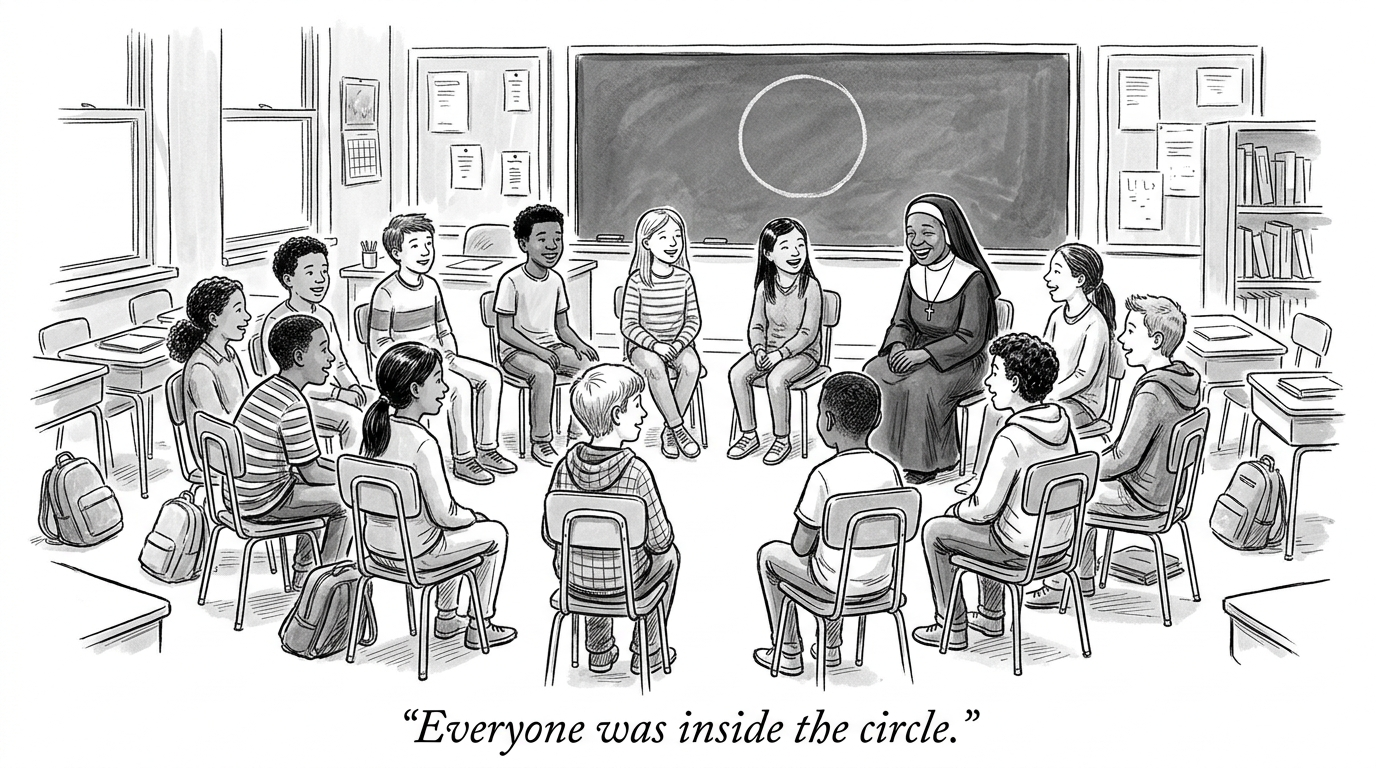
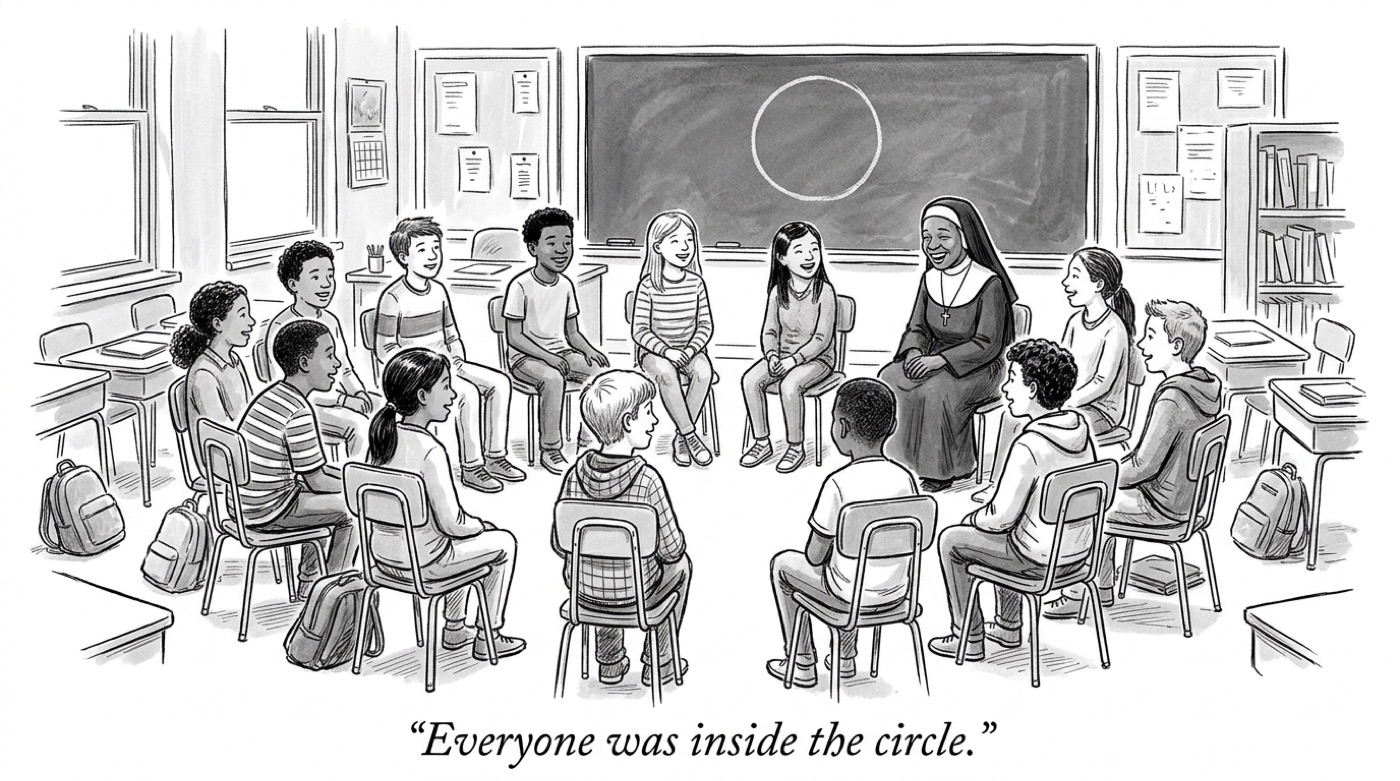
Modern redesign: trust panel in the hero, card grid blog with covers and topic chips, post pages with cover and CTA, new footer; compressed post images

diff --git a/app/assets/stylesheets/site.css b/app/assets/stylesheets/site.css
@@ -1,51 +1,126 @@
-:root{--navy:#0a1733;--blue:#2563eb;--blue-x:#60a5fa;--paper:#faf8f4;--ink:#16213a;--mute:#5b6478;--line:#e4dfd5;--serif:"Fraunces",Georgia,serif;--sans:"Inter",system-ui,sans-serif}
+/* Parallex: modern, restrained, built for readers who have to trust us. Navy anchor, cool neutral ground, one blue accent. */
+:root{--navy:#0b1630;--navy-2:#13264d;--accent:#2457d6;--accent-soft:#e8eefc;--bg:#f6f7f9;--surface:#fff;--ink:#101828;--mute:#566074;--line:#e2e6ee;--ok:#1e7a55;--r:14px;--shadow:0 1px 2px rgba(16,24,40,.05),0 8px 24px rgba(16,24,40,.06);--sans:"Inter",system-ui,-apple-system,"Segoe UI",sans-serif;--head:"Plus Jakarta Sans","Inter",system-ui,sans-serif}
 *{box-sizing:border-box}
-body{margin:0;background:var(--paper);color:var(--ink);font:17px/1.65 var(--sans)}
-.wrap{max-width:1040px;margin:0 auto;padding:0 24px}
-a{color:var(--blue)}
-h1,h2,h3{font-family:var(--serif);font-weight:400;line-height:1.15;letter-spacing:-.01em;margin:0 0 .5em}
-h1{font-size:clamp(2.2rem,5vw,3.6rem)}h2{font-size:clamp(1.6rem,3vw,2.2rem)}h3{font-size:1.25rem}
-em{font-style:italic}
-.top{border-bottom:1px solid var(--line);background:var(--paper)}
-.bar{display:flex;align-items:center;justify-content:space-between;height:68px}
-.brand{display:flex;align-items:center;gap:12px;text-decoration:none;color:var(--navy)}
-.mark{display:block;border-radius:6px}
-.cube{width:22px;height:22px;border-radius:5px;background:linear-gradient(135deg,var(--blue-x),var(--blue));transform:rotate(45deg)}
-.nm{font:700 15px var(--serif);font-family:"Space Grotesk",sans-serif;letter-spacing:.14em}
-nav{display:flex;align-items:center;gap:26px;font-size:15px}
+html{scroll-behavior:smooth}
+body{margin:0;background:var(--bg);color:var(--ink);font:17px/1.65 var(--sans);-webkit-font-smoothing:antialiased}
+.wrap{max-width:1120px;margin:0 auto;padding:0 28px}
+a{color:var(--accent);text-underline-offset:3px}
+a:focus-visible,.btn:focus-visible,input:focus-visible,select:focus-visible,textarea:focus-visible{outline:3px solid #9db8f5;outline-offset:2px}
+h1,h2,h3{font-family:var(--head);font-weight:600;line-height:1.12;letter-spacing:-.02em;margin:0 0 .55em;color:var(--navy);text-wrap:balance}
+h1{font-size:clamp(2.3rem,5.2vw,3.7rem)}h2{font-size:clamp(1.6rem,3vw,2.15rem)}h3{font-size:1.18rem;letter-spacing:-.01em}
+em{font-style:normal;color:#9ec1ff}
+/* header */
+.top{position:sticky;top:0;z-index:20;background:rgba(246,247,249,.86);backdrop-filter:saturate(1.4) blur(10px);-webkit-backdrop-filter:saturate(1.4) blur(10px);border-bottom:1px solid var(--line)}
+.bar{display:flex;align-items:center;justify-content:space-between;height:72px}
+.brand{display:flex;align-items:center;gap:12px;text-decoration:none}
+.mark{display:block;border-radius:10px;width:44px;height:44px;object-fit:cover}
+nav{display:flex;align-items:center;gap:28px;font-size:15px;font-weight:500}
 nav a{color:var(--ink);text-decoration:none}
-nav a:hover{color:var(--blue)}
-.btn{display:inline-block;background:var(--navy);color:#fff!important;padding:13px 24px;border-radius:2px;text-decoration:none;font-weight:500;border:0;cursor:pointer;font:500 16px var(--sans)}
-.btn:hover{background:var(--blue)}
-.btn.small{padding:8px 16px;font-size:14px}
-.hero{position:relative;background:var(--navy) linear-gradient(135deg,#0a1733,#16305f);color:#fff;overflow:hidden}
-.hero::before{content:none}
-.hero::after{content:"";position:absolute;inset:0;background:linear-gradient(180deg,rgba(10,23,51,.0),rgba(10,23,51,.0))}
-.hero .wrap{position:relative;z-index:1;padding-top:110px;padding-bottom:110px}
-.hero p{max-width:34em;font-size:1.2rem;color:#d6dff2}
-.hero .btn{background:#fff;color:var(--navy)!important}.hero .btn:hover{background:var(--blue-x)}
-section.block{padding:84px 0;border-bottom:1px solid var(--line)}
-.cols{display:grid;grid-template-columns:repeat(3,1fr);gap:40px}
+nav a:hover{color:var(--accent)}
+.btn{display:inline-flex;align-items:center;gap:8px;background:var(--navy);color:#fff!important;padding:14px 26px;border-radius:999px;text-decoration:none;font:600 15px var(--sans);border:0;cursor:pointer;transition:background .15s,transform .15s}
+.btn:hover{background:var(--accent);transform:translateY(-1px)}
+.btn.small{padding:9px 18px;font-size:14px}
+.btn.ghost{background:transparent;color:var(--navy)!important;box-shadow:inset 0 0 0 1.5px var(--line)}
+.btn.ghost:hover{background:var(--surface);box-shadow:inset 0 0 0 1.5px var(--accent)}
+/* hero */
+.hero{background:radial-gradient(1200px 500px at 85% -10%,#1b3a78 0%,transparent 60%),linear-gradient(160deg,var(--navy),var(--navy-2));color:#fff}
+.hero .wrap{display:grid;grid-template-columns:1.35fr .85fr;gap:56px;align-items:center;padding-top:96px;padding-bottom:96px}
+.hero h1{color:#fff;margin-bottom:.4em}
+.hero p{max-width:33em;font-size:1.15rem;color:#cfd9ee}
+.hero .actions{display:flex;gap:14px;flex-wrap:wrap;margin-top:28px}
+.hero .btn{background:#fff;color:var(--navy)!important}.hero .btn:hover{background:#dbe6ff}
+.hero .btn.ghost{background:transparent;color:#fff!important;box-shadow:inset 0 0 0 1.5px rgba(255,255,255,.4)}
+.hero .btn.ghost:hover{background:rgba(255,255,255,.08);box-shadow:inset 0 0 0 1.5px #fff}
+.assure{background:rgba(255,255,255,.07);border:1px solid rgba(255,255,255,.16);border-radius:var(--r);padding:26px;list-style:none;margin:0}
+.assure li{display:flex;gap:14px;padding:14px 0;border-top:1px solid rgba(255,255,255,.12);color:#e6edfb;font-size:.98rem;line-height:1.45}
+.assure li:first-child{border-top:0;padding-top:0}.assure li:last-child{padding-bottom:0}
+.assure svg{flex:none;width:22px;height:22px;margin-top:1px;stroke:#9ec1ff}
+.assure b{display:block;color:#fff;font-weight:600}
+/* sections */
+section.block{padding:88px 0}
+section.block+section.block{border-top:1px solid var(--line)}
+section.block.alt{background:var(--surface)}
+.eyebrow{font:600 12px var(--sans);letter-spacing:.14em;text-transform:uppercase;color:var(--accent);margin-bottom:14px}
+.prose{max-width:42em}
+.cols{display:grid;grid-template-columns:repeat(3,1fr);gap:24px}
+.card{background:var(--surface);border:1px solid var(--line);border-radius:var(--r);padding:30px;box-shadow:var(--shadow)}
+.block.alt .card{background:var(--bg);box-shadow:none}
+.card h3{margin-bottom:.4em}.card p{color:var(--mute);margin:0}
+.card .num{display:inline-flex;align-items:center;justify-content:center;width:36px;height:36px;border-radius:10px;background:var(--accent-soft);color:var(--accent);font:700 14px var(--head);margin-bottom:16px}
 .cols p{color:var(--mute)}
-.eyebrow{font:600 12px var(--sans);letter-spacing:.16em;text-transform:uppercase;color:var(--blue);margin-bottom:14px}
-.prose{max-width:40em}
-form.intro{max-width:36em}
-label{display:block;font-weight:500;font-size:14px;margin:20px 0 6px}
-input,select,textarea{width:100%;padding:12px 14px;border:1px solid var(--line);background:#fff;font:inherit;border-radius:2px}
-textarea{min-height:150px}
+/* forms */
+form.intro{max-width:38em;background:var(--surface);border:1px solid var(--line);border-radius:var(--r);padding:34px;box-shadow:var(--shadow)}
+label{display:block;font-weight:600;font-size:14px;margin:20px 0 6px;color:var(--navy)}
+input,select,textarea{width:100%;padding:13px 15px;border:1px solid #cdd4e1;background:#fff;font:inherit;border-radius:10px}
+input:focus,select:focus,textarea:focus{border-color:var(--accent)}
+textarea{min-height:160px}
 .hp{position:absolute;left:-9999px}
-.errors{background:#fff3f0;border:1px solid #f0c4bb;padding:12px 16px;margin-bottom:12px}
-.foot{padding:36px 0;color:var(--mute);font-size:14px}
-.foot .wrap{display:flex;justify-content:space-between}
-.page{padding:72px 0 96px}
+.errors{background:#fff3f0;border:1px solid #f0c4bb;padding:12px 16px;border-radius:10px;margin-bottom:12px}
+/* footer */
+.foot{background:var(--navy);color:#b9c6e2;padding:56px 0 36px;font-size:15px}
+.foot a{color:#dbe6ff}
+.foot .grid{display:grid;grid-template-columns:1.4fr 1fr 1fr;gap:40px}
+.foot h4{color:#fff;font:600 13px var(--sans);letter-spacing:.1em;text-transform:uppercase;margin:0 0 12px}
+.foot ul{list-style:none;margin:0;padding:0}.foot li{margin:6px 0}
+.foot .fine{margin-top:40px;padding-top:20px;border-top:1px solid rgba(255,255,255,.12);display:flex;justify-content:space-between;gap:16px;flex-wrap:wrap;font-size:13px;color:#8a99ba}
+/* pages */
+.page{padding:80px 0 104px}
+.page h1{font-size:clamp(2rem,4vw,2.8rem)}
+.page h3{margin-top:1.6em}
 table{border-collapse:collapse;width:100%;font-size:15px}th,td{text-align:left;padding:10px 8px;border-bottom:1px solid var(--line)}
-@media(max-width:760px){.cols{grid-template-columns:1fr}nav a:not(.btn){display:none}.hero .wrap{padding-top:70px;padding-bottom:70px}}
-.muted{opacity:.7;font-size:.95em}
-.post-card{padding:18px 0;border-top:1px solid rgba(128,128,128,.25)}
-.post-card h3{margin:0 0 4px}
+.muted{color:var(--mute);font-size:.95em}
+/* blog */
+.chips{display:flex;flex-wrap:wrap;gap:8px;margin:0 0 14px;padding:0;list-style:none}
+.chip{display:inline-block;padding:4px 11px;border-radius:999px;background:var(--accent-soft);color:#1b43a6;font:600 12px var(--sans);letter-spacing:.02em;text-decoration:none}
+a.chip:hover{background:#d5e1fb}
+.chip.on{background:var(--navy);color:#fff}
+.filters{display:flex;flex-wrap:wrap;gap:8px;margin:0 0 32px}
+.posts{display:grid;grid-template-columns:repeat(3,1fr);gap:28px}
+.pc{display:flex;flex-direction:column;background:var(--surface);border:1px solid var(--line);border-radius:var(--r);overflow:hidden;box-shadow:var(--shadow);transition:transform .18s,box-shadow .18s}
+.pc:hover{transform:translateY(-3px);box-shadow:0 2px 4px rgba(16,24,40,.06),0 16px 36px rgba(16,24,40,.1)}
+.pc .cover{display:block;aspect-ratio:16/9;background:var(--accent-soft)}
+.pc .cover img{width:100%;height:100%;object-fit:cover;display:block}
+.pc .body{padding:24px 26px 28px;display:flex;flex-direction:column;flex:1}
+.pc h3{font-size:1.32rem;line-height:1.2;margin:0 0 .5em}
+.pc h3 a{color:var(--navy);text-decoration:none}
+.pc h3 a::after{content:"";position:absolute;inset:0}
+.pc{position:relative}
+.pc p{color:var(--mute);margin:0 0 16px;font-size:.98rem}
+.pc .date{font:600 12px var(--sans);letter-spacing:.1em;text-transform:uppercase;color:#2c5282;margin:0 0 10px}
+.pc .chips{margin:auto 0 0;padding-top:4px}
+.empty{background:var(--surface);border:1px dashed #c4ccdb;border-radius:var(--r);padding:40px;text-align:center;color:var(--mute)}
+/* post */
+.post-hero{background:var(--surface);border-bottom:1px solid var(--line)}
+.post-hero .wrap{max-width:860px;padding-top:56px;padding-bottom:40px}
+.post-hero h1{font-size:clamp(2rem,4.4vw,3rem);margin-bottom:.35em}
+.post-cover{max-width:960px;margin:0 auto;padding:0 28px}
+.post-cover img{width:100%;height:auto;display:block;border-radius:var(--r);border:1px solid var(--line);margin-top:-1px;box-shadow:var(--shadow)}
+.post-body{max-width:44em;margin:0 auto;padding:44px 28px 88px}
+.post-body p{margin:0 0 1.15em}
+.post-body h2{font-size:1.5rem;margin:2em 0 .6em}
+.post-body blockquote{margin:1.6em 0;padding:4px 0 4px 20px;border-left:3px solid var(--accent);color:var(--navy);font-size:1.1rem}
+.post-image{margin:28px 0}.post-image img{max-width:100%;height:auto;display:block;border-radius:var(--r);border:1px solid var(--line)}
+.post-body table{border-collapse:collapse;width:100%;font-size:.92em;margin:18px 0;display:block;overflow-x:auto}
+.post-body th,.post-body td{border:1px solid var(--line);padding:8px 10px;text-align:left}
+.post-body th{background:#eef1f7}
+.post-body ol{padding-left:1.3em}
+.post-body #src-1,.post-body li[id^="src-"]{font-size:.85rem;color:var(--mute);overflow-wrap:anywhere}
+sup .cite{text-decoration:none;font-weight:600}
+.cta-band{background:var(--navy);color:#fff;border-radius:var(--r);padding:34px 36px;margin-top:48px;display:flex;justify-content:space-between;align-items:center;gap:24px;flex-wrap:wrap}
+.cta-band h3{color:#fff;margin:0;font-size:1.3rem}
+.cta-band .btn{background:#fff;color:var(--navy)!important}
+@media(max-width:1000px){.posts{grid-template-columns:repeat(2,1fr)}}
+@media(max-width:900px){.hero .wrap{grid-template-columns:1fr;gap:36px;padding-top:64px;padding-bottom:64px}.cols{grid-template-columns:1fr}.foot .grid{grid-template-columns:1fr}}
+@media(max-width:640px){.posts{grid-template-columns:1fr}}
+@media(max-width:760px){nav a:not(.btn){display:none}section.block{padding:64px 0}.wrap{padding:0 20px}}
+@media(prefers-reduced-motion:reduce){*{transition:none!important;scroll-behavior:auto!important}}
 
-.post-image{margin:20px 0}
-.post-image img{max-width:100%;height:auto;display:block}
-.prose table{border-collapse:collapse;width:100%;font-size:.95em;margin:16px 0}
-.prose th,.prose td{border:1px solid rgba(128,128,128,.35);padding:6px 8px;text-align:left}
-sup .cite{text-decoration:none}
+.crumbs{font-size:14px;color:var(--mute);margin:0 0 16px}.crumbs a{color:var(--mute);text-decoration:none}.crumbs a:hover{color:var(--accent)}
+.lede{font-size:1.15rem;color:var(--mute);max-width:36em}
+/* keep prose sections left-aligned with the header and hero, with a readable measure */
+.wrap.prose{max-width:1120px}
+.wrap.prose>*{max-width:42em}
+.wrap.prose>.cols,.wrap.prose>table{max-width:none}
+.page .prose h3{padding-top:24px;margin-top:30px;border-top:1px solid var(--line);font-size:1.25rem}
+.page .prose h3:first-of-type{border-top:0;padding-top:0}
+.page .prose>p{color:#2b3548}

diff --git a/app/controllers/posts_controller.rb b/app/controllers/posts_controller.rb
@@ -1,6 +1,9 @@
 class PostsController < ApplicationController
   def index
-    @posts = Post.published
+    @all = Post.published
+    @tags = @all.flat_map { |p| p.tags.to_a }.tally.sort_by { |t, n| [-n, t] }.map(&:first)
+    @tag = params[:tag].presence
+    @posts = @tag ? @all.select { |p| p.tags.to_a.include?(@tag) } : @all.to_a
   end
 
   def show
